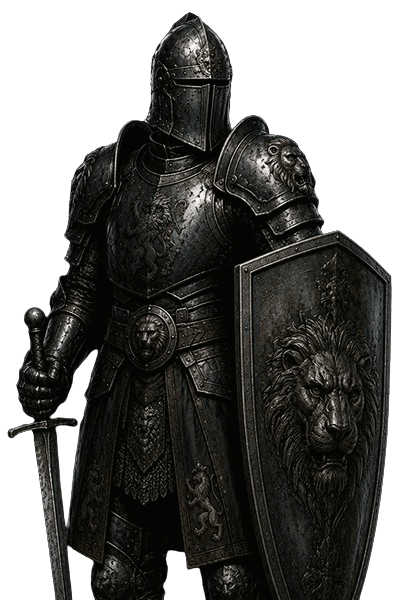
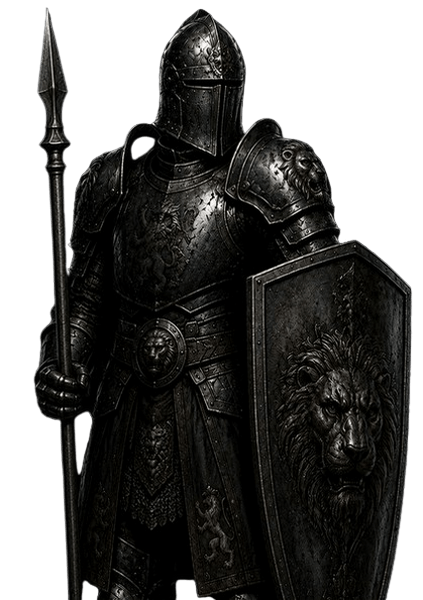
unit balance

Changed region(s): [[0.0, 0.0, 0.99, 1.0]]

diff --git a/data/unit_abilities.js b/data/unit_abilities.js
@@ -42,7 +42,7 @@ const UNIT_ABILITIES = {
     type: 'passive',
     trigger: 'on_battle_start',
     description: 'All allies gain +3 armor.',
-    params: { ally_armor_bonus: 5 },
+    params: { ally_armor_bonus: 3 },
   },
   'fortify 2': {
     id: 'fortify 2',
@@ -51,7 +51,7 @@ const UNIT_ABILITIES = {
     type: 'passive',
     trigger: 'on_battle_start',
     description: 'All allies gain +5 armor.',
-    params: { ally_armor_bonus: 8 },
+    params: { ally_armor_bonus: 5 },
   },
   'beacon_of_hope 1': {
     id: 'beacon_of_hope 1',
@@ -140,8 +140,8 @@ const UNIT_ABILITIES = {
     rank: 1,
     type: 'passive',
     trigger: 'on_hit',
-    description: 'Target receives 10% less healing.',
-    params: { healing_reduction_pct: 10 },
+    description: 'Target receives 20% less healing.',
+    params: { healing_reduction_pct: 20 },
   },
   'infect 2': {
     id: 'infect 2',
@@ -149,8 +149,8 @@ const UNIT_ABILITIES = {
     rank: 2,
     type: 'passive',
     trigger: 'on_hit',
-    description: 'Target receives 20% less healing.',
-    params: { healing_reduction_pct: 20 },
+    description: 'Target receives 35% less healing.',
+    params: { healing_reduction_pct: 35 },
   },
   'aggrails_blessing 1': {
     id: 'aggrails_blessing 1',
@@ -216,8 +216,8 @@ const UNIT_ABILITIES = {
     rank: 1,
     type: 'passive',
     trigger: 'on_death',
-    description: 'On death, deals 10 fire damage to all enemies.',
-    params: { death_aoe_damage: 10, damage_type: 'nature' },
+    description: 'On death, deals 5 fire damage to all enemies.',
+    params: { death_aoe_damage: 5, damage_type: 'fire' },
     effect_name: 'last_verse',
     animation_sound: 'last_verse',
   },
@@ -227,8 +227,8 @@ const UNIT_ABILITIES = {
     rank: 1,
     type: 'passive',
     trigger: 'on_death',
-    description: 'On death, deals 10 nature damage to all enemies.',
-    params: { death_aoe_damage: 10, damage_type: 'nature' },
+    description: 'On death, deals 5 nature damage to all enemies.',
+    params: { death_aoe_damage: 5, damage_type: 'nature' },
     effect_name: 'noxious_death',
     animation_sound: 'noxious_death',
   },
@@ -238,8 +238,8 @@ const UNIT_ABILITIES = {
     rank: 2,
     type: 'passive',
     trigger: 'on_death',
-    description: 'On death, deals 20 nature damage to all enemies.',
-    params: { death_aoe_damage: 20, damage_type: 'nature' },
+    description: 'On death, deals 8 nature damage to all enemies.',
+    params: { death_aoe_damage: 8, damage_type: 'nature' },
     effect_name: 'noxious_death',
     animation_sound: 'noxious_death',
   },
@@ -379,8 +379,8 @@ const UNIT_ABILITIES = {
     rank: 2,
     type: 'passive',
     trigger: 'on_hit',
-    description: 'Reduces target armor by 6 until end of battle.',
-    params: { armor_shred: 6 },
+    description: 'Reduces target armor by 4 until end of battle.',
+    params: { armor_shred: 4 },
   },
   'slow 1': {
     id: 'slow 1',
@@ -425,8 +425,8 @@ const UNIT_ABILITIES = {
     rank: 1,
     type: 'passive',
     trigger: 'on_hit_received',
-    description: 'Reflects 10% of physical damage received back to attacker.',
-    params: { reflect_pct: 10, damage_type: 'physical' },
+    description: 'Reflects 20% of physical damage received back to attacker.',
+    params: { reflect_pct: 20, damage_type: 'physical' },
   },
   'thorns 2': {
     id: 'thorns 2',
@@ -435,8 +435,8 @@ const UNIT_ABILITIES = {
     rank: 2,
     type: 'passive',
     trigger: 'on_hit_received',
-    description: 'Reflects 20% of physical damage received back to attacker.',
-    params: { reflect_pct: 20, damage_type: 'physical' },
+    description: 'Reflects 30% of physical damage received back to attacker.',
+    params: { reflect_pct: 30, damage_type: 'physical' },
   },
   'undying 1': {
     id: 'undying 1',
@@ -462,8 +462,8 @@ const UNIT_ABILITIES = {
     rank: 1,
     type: 'passive',
     trigger: 'on_battle_start',
-    description: 'All allies gain 5 HP.',
-    params: { ally_max_hp_bonus: 5 },
+    description: 'All allies gain 3 HP.',
+    params: { ally_max_hp_bonus: 3 },
   },
   'vitality 2': {
     id: 'vitality 2',
@@ -471,8 +471,8 @@ const UNIT_ABILITIES = {
     rank: 2,
     type: 'passive',
     trigger: 'on_battle_start',
-    description: 'All allies gain 10 HP.',
-    params: { ally_max_hp_bonus: 10 },
+    description: 'All allies gain 6 HP.',
+    params: { ally_max_hp_bonus: 6 },
   },
   'vitality 3': {
     id: 'vitality 3',
@@ -480,8 +480,8 @@ const UNIT_ABILITIES = {
     rank: 3,
     type: 'passive',
     trigger: 'on_battle_start',
-    description: 'All allies gain 15 HP.',
-    params: { ally_max_hp_bonus: 15 },
+    description: 'All allies gain 9 HP.',
+    params: { ally_max_hp_bonus: 9 },
   },
   'volcanic_skin 1': {
     id: 'volcanic_skin 1',
@@ -701,14 +701,14 @@ const UNIT_ABILITIES = {
     description: 'After taking damage, gain +3 armor or resistance to that damage type for the rest of the round.',
     params: { resist_gain: 3, duration_rounds: 1, match_damage_type: true },
   },
-    'aegis 2': {
+  'aegis 2': {
     id: 'aegis 1',
     name: 'Aegis',
     rank: 1,
     type: 'passive',
     trigger: 'on_take_damage',
-    description: 'After taking damage, gain +5 armor or resistance to that damage type for the rest of the round.',
-    params: { resist_gain: 5, duration_rounds: 1, match_damage_type: true },
+    description: 'After taking damage, gain +4 armor or resistance to that damage type for the rest of the round.',
+    params: { resist_gain: 4, duration_rounds: 1, match_damage_type: true },
   },
   'terror 1': {
     id: 'terror 1',
@@ -771,7 +771,7 @@ const UNIT_ABILITIES = {
     type: 'passive',
     trigger: 'on_turn_start',
     description: 'At the start of this unit\'s turn, heals the ally directly in front and deals damage to the enemy directly in front.',
-    params: { light_of_dawn: true, light_of_dawn_heal: 15, light_of_dawn_dmg: 15 },
+    params: { light_of_dawn: true, light_of_dawn_heal: 5, light_of_dawn_dmg: 5 },
     effect_name: 'holy_heal',
   },
   'light_of_dawn 2': {
@@ -781,7 +781,7 @@ const UNIT_ABILITIES = {
     type: 'passive',
     trigger: 'on_turn_start',
     description: 'At the start of this unit\'s turn, heals the ally directly in front and deals damage to the enemy directly in front.',
-    params: { light_of_dawn: true, light_of_dawn_heal: 25, light_of_dawn_dmg: 25 },
+    params: { light_of_dawn: true, light_of_dawn_heal: 8, light_of_dawn_dmg: 8 },
     effect_name: 'holy_heal',
   },
   'eternal_grief 1': {

diff --git a/data/units.js b/data/units.js
@@ -915,7 +915,7 @@ const UNITS = {
       resistances: { air: 5, fire: 0, life: 50, death: 0, cold: 0, nature: 5 },
       action: 'attack', target_type: 'enemy', targets: 1, range: 1,
       damage_source: 'physical', action_power: 12, action_icon: 'spear.jpg',
-      xp: 90, passive: 'protector 1', ability: null,
+      xp: 90, passive: 'impale 1', ability: null,
     },
     infantry: {
       id: 'e11', f: 'e', t: 2,
@@ -925,8 +925,8 @@ const UNITS = {
       hp: 55, armor: 15, initiative: 40,
       resistances: { air: 0, fire: 0, life: 50, death: 0, cold: 0, nature: 5 },
       action: 'attack', target_type: 'enemy', targets: 1, range: 1,
-      damage_source: 'physical', action_power: 15,
-      xp: 300, passive: 'protector 2', ability: null,
+      damage_source: 'physical', action_power: 15, action_icon: 'spear.jpg',
+      xp: 300, passive: ['impale 1', 'protector 1'], ability: null,
     },
     crossbowman: {
       id: 'e111', f: 'e', t: 3,
@@ -944,18 +944,18 @@ const UNITS = {
       name: 'Heavy Infantry',
       tags: ['Knight', null],
       size: 'tile',
-      hp: 90, armor: 25, initiative: 40,
+      hp: 70, armor: 20, initiative: 40,
       resistances: { air: 5, fire: 0, life: 50, death: 10, cold: 10, nature: 10 },
       action: 'attack', target_type: 'enemy', targets: 1, range: 1,
-      damage_source: 'physical', action_power: 30, action_icon: 'sword.jpg',
-      xp: 300, passive: ['protector 2', 'recuperate 1'], ability: 'stun 1',
+      damage_source: 'physical', action_power: 30, action_icon: 'spear.jpg',
+      xp: 300, passive: ['impale 1', 'protector 2'], ability: 'stun 1',
     },
     horseman: {
       id: 'e12', f: 'e', t: 2,
       name: 'Horseman',
       tags: ['Knight', null],
       size: 'row',
-      hp: 100, armor: 25, initiative: 50,
+      hp: 105, armor: 25, initiative: 50,
       resistances: { air: 5, fire: 5, life: 50, death: 5, cold: 10, nature: 10 },
       action: 'attack', target_type: 'enemy', targets: 1, range: 1,
       damage_source: 'physical', action_power: 30, action_icon: 'spear.jpg',
@@ -966,7 +966,7 @@ const UNITS = {
       name: 'Cavalry',
       tags: ['Knight', null],
       size: 'row',
-      hp: 120, armor: 25, initiative: 55,
+      hp: 125, armor: 25, initiative: 55,
       resistances: { air: 5, fire: 5, life: 50, death: 5, cold: 10, nature: 10 },
       action: 'attack', target_type: 'enemy', targets: 1, range: 1,
       damage_source: 'physical', action_power: 40, action_icon: 'spear.jpg',
@@ -1835,7 +1835,7 @@ const UNITS = {
       hp: 45, armor: 0, initiative: 30,
       resistances: { air: 0, fire: 0, life: 0, death: 50, cold: 0, nature: 0 },
       action: 'attack', target_type: 'enemy', targets: 1, range: 3,
-      damage_source: 'death', action_power: 12,
+      damage_source: 'death', action_power: 12, action_icon: 'communion',
       xp: 75, passive: 'communion 1', ability: 'blood_craze 1',
     },
     grail_tender: {
@@ -1846,7 +1846,7 @@ const UNITS = {
       hp: 55, armor: 0, initiative: 30,
       resistances: { air: 0, fire: 0, life: 0, death: 50, cold: 0, nature: 0 },
       action: 'attack', target_type: 'enemy', targets: 1, range: 3,
-      damage_source: 'death', action_power: 15,
+      damage_source: 'death', action_power: 15, action_icon: 'communion',
       xp: 350, passive: ['communion 1', 'inspiration_initiative 1'], ability: 'blood_craze 1',
     },
     grail_tender: {
@@ -1857,7 +1857,7 @@ const UNITS = {
       hp: 55, armor: 0, initiative: 30,
       resistances: { air: 0, fire: 0, life: 0, death: 50, cold: 0, nature: 0 },
       action: 'attack', target_type: 'enemy', targets: 1, range: 3,
-      damage_source: 'death', action_power: 20,
+      damage_source: 'death', action_power: 20, action_icon: 'communion',
       xp: 350, passive: ['communion 1', 'inspiration_initiative 1', 'inspiration_damage 1'], ability: 'blood_craze 1',
     },
     greiving_servant: {
@@ -1868,7 +1868,7 @@ const UNITS = {
       hp: 60, armor: 0, initiative: 30,
       resistances: { air: 0, fire: 0, life: 0, death: 50, cold: 0, nature: 0 },
       action: 'attack', target_type: 'enemy', targets: 1, range: 3,
-      damage_source: 'death', action_power: 15,
+      damage_source: 'death', action_power: 15, action_icon: 'communion',
       xp: 370, passive: ['communion 1', 'lifesteal 1'], ability: 'blood_craze 1',
     },
     greiving_servant2: {
@@ -1879,7 +1879,7 @@ const UNITS = {
       hp: 70, armor: 0, initiative: 30,
       resistances: { air: 0, fire: 0, life: 0, death: 50, cold: 0, nature: 0 },
       action: 'attack', target_type: 'enemy', targets: 1, range: 3,
-      damage_source: 'death', action_power: 20,
+      damage_source: 'death', action_power: 20, action_icon: 'communion',
       xp: 370, passive: ['communion 1', 'lifesteal 1', 'rage 1'], ability: 'blood_craze 1',
     },
     ghost: {
